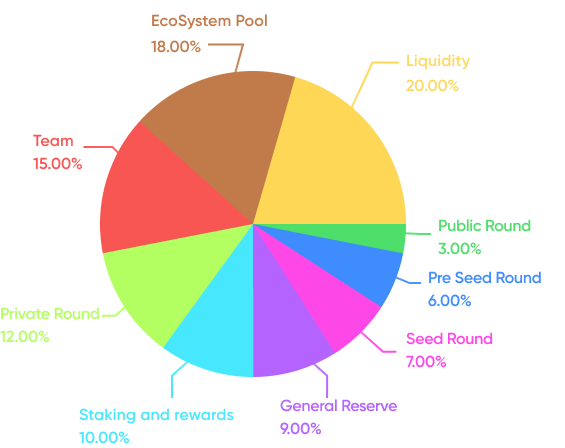
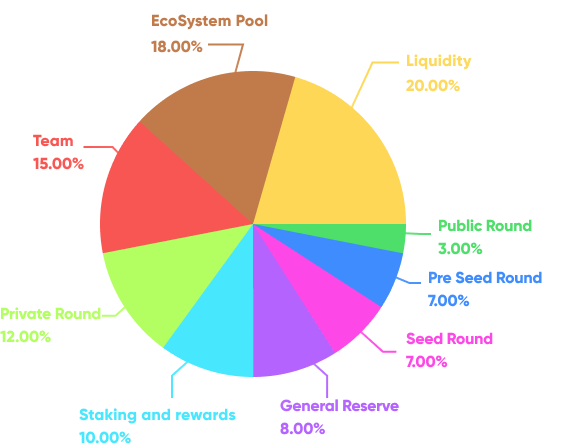
asd

diff --git a/src/Pages/Explore/Solutions.jsx b/src/Pages/Explore/Solutions.jsx
@@ -117,9 +117,9 @@ const Solutions = () => {
           <div className="grid grid-cols-1 sm:grid-cols-2 lg:grid-cols-3 xl:flex justify-start  flex-row items-start xl:flex-col gap-5 w-full">
             <div
               ref={tab1}
-              onClick={() => setTab("task")}
+              onClick={() => setTab("log")}
               className={`flex rounded-full border-2 border-solid cursor-pointer transition-all duration-500 ${
-                tab === "task" ? "border-[#544683]" : "border-transparent"
+                tab === "log" ? "border-[#544683]" : "border-transparent"
               } px-5 w-full min-w-0 xl:min-w-[400px] mid:min-w-[460px] h-[72px]  justify-start items-center gap-5`}
             >
               <span className="text-[#FF519F] font-bold text-lg xl:text-[24px]">
@@ -129,7 +129,7 @@ const Solutions = () => {
                 -
               </span>
               <span className="text-white font-bold text-lg xl:text-[24px]">
-                Task Manager
+                Log Management
               </span>
             </div>
             <div
@@ -149,11 +149,12 @@ const Solutions = () => {
                 User level hierarchy
               </span>
             </div>
+
             <div
               ref={tab3}
-              onClick={() => setTab("log")}
+              onClick={() => setTab("task")}
               className={`flex rounded-full border-2 border-solid cursor-pointer transition-all duration-500 ${
-                tab === "log" ? "border-[#544683]" : "border-transparent"
+                tab === "task" ? "border-[#544683]" : "border-transparent"
               } px-5 w-full min-w-0 xl:min-w-[400px] mid:min-w-[460px] h-[72px]  justify-start items-center gap-5`}
             >
               <span className="text-[#FF519F] font-bold text-lg xl:text-[24px]">
@@ -163,7 +164,7 @@ const Solutions = () => {
                 -
               </span>
               <span className="text-white font-bold text-lg xl:text-[24px]">
-                Log Management
+                Task Manager
               </span>
             </div>
             <div

diff --git a/src/Layout/Footer.jsx b/src/Layout/Footer.jsx
@@ -15,11 +15,15 @@ import { HashLink } from "react-router-hash-link";
 const Footer = () => {
   return (
     <div className="wrapper sm:p-0 pb-16  mt-[60px] lg:mt-[100px] relative">
-      <FontAwesomeIcon
-        onClick={() => window.scrollTo(0, 0)}
-        icon={faArrowUp}
-        className="absolute bg-btnGr rounded-full h-7 w-7 box-border p-3 cursor-pointer text-white  bottom-5 right-5"
-      />
+      <div className="absolute group overflow-hidden  bottom-5 right-5 rounded-full isolate">
+        <div className="absolute -z-10 bg-blueGr rounded-full left-0 top-0 h-[52px] w-[52px] transition-all duration-300 opacity-0 group-hover:opacity-100"></div>
+        <div className="absolute -z-10 bg-btnGr rounded-full left-0 top-0 h-[52px] w-[52px] transition-all duration-300 opacity-100 group-hover:opacity-0"></div>
+        <FontAwesomeIcon
+          onClick={() => window.scrollTo(0, 0)}
+          icon={faArrowUp}
+          className="  hover:scale-105 rounded-full h-7 w-7 box-border p-3 cursor-pointer text-white "
+        />
+      </div>
       <div className="contain pt-[40px] sm:pt-[60px] pb-5 justify-start items-center flex-col">
         <footer className="w-full grid grid-cols-2 grid-rows-2 sm:flex sm:flex-col lg:flex-row justify-between items-center sm:items-start gap-5">
           <svg
@@ -349,12 +353,18 @@ const Footer = () => {
             <a href="#" className="text-sm sm:text-base text-pink font-normal">
               © Naplozz 2022
             </a>
-            <a href="#" className="text-sm sm:text-base text-pink font-normal">
+            <Link
+              to={"/info"}
+              className="text-sm sm:text-base text-pink font-normal"
+            >
               Privacy Policy
-            </a>
-            <a href="#" className="text-sm sm:text-base text-pink font-normal">
+            </Link>
+            <Link
+              to={"/info"}
+              className="text-sm sm:text-base text-pink font-normal"
+            >
               Terms of Use
-            </a>
+            </Link>
           </div>
         </div>
       </div>

diff --git a/src/Pages/Explore/Tokenomics.jsx b/src/Pages/Explore/Tokenomics.jsx
@@ -80,10 +80,10 @@ const Tokenomics = () => {
             </div>
             <TokenomicsRow
               pool="Preseed Round"
-              percentage="6.00%"
-              tgs="12 000 000"
-              price="$0.014"
-              discount="76.67 %"
+              percentage="7.00%"
+              tgs="14 000 000"
+              price="$0.012"
+              discount="80 %"
               tge="6.0 %"
               cliff={4}
               visiting={10}
@@ -160,8 +160,8 @@ const Tokenomics = () => {
             />
             <TokenomicsRow
               pool="General Reserve"
-              percentage="9.00%"
-              tgs="18 000 000"
+              percentage="8.00%"
+              tgs="16 000 000"
               price=""
               discount=""
               tge="0.0 %"
